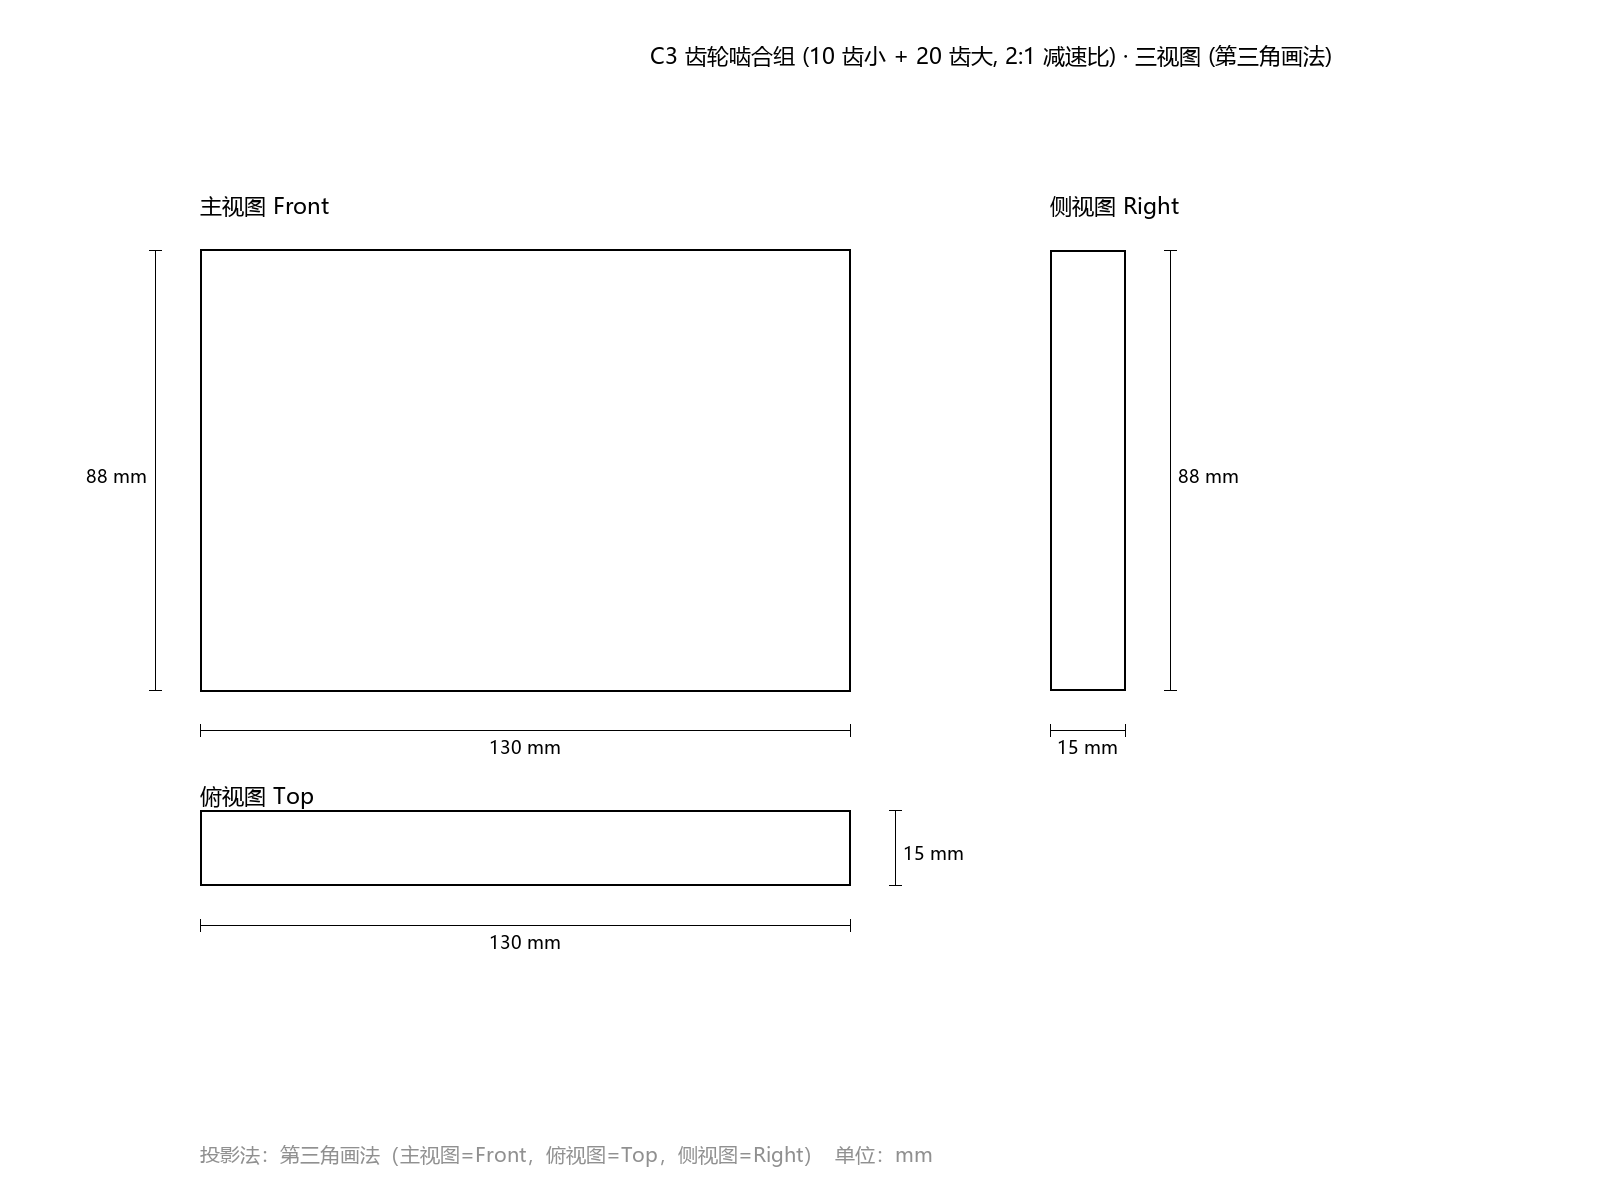
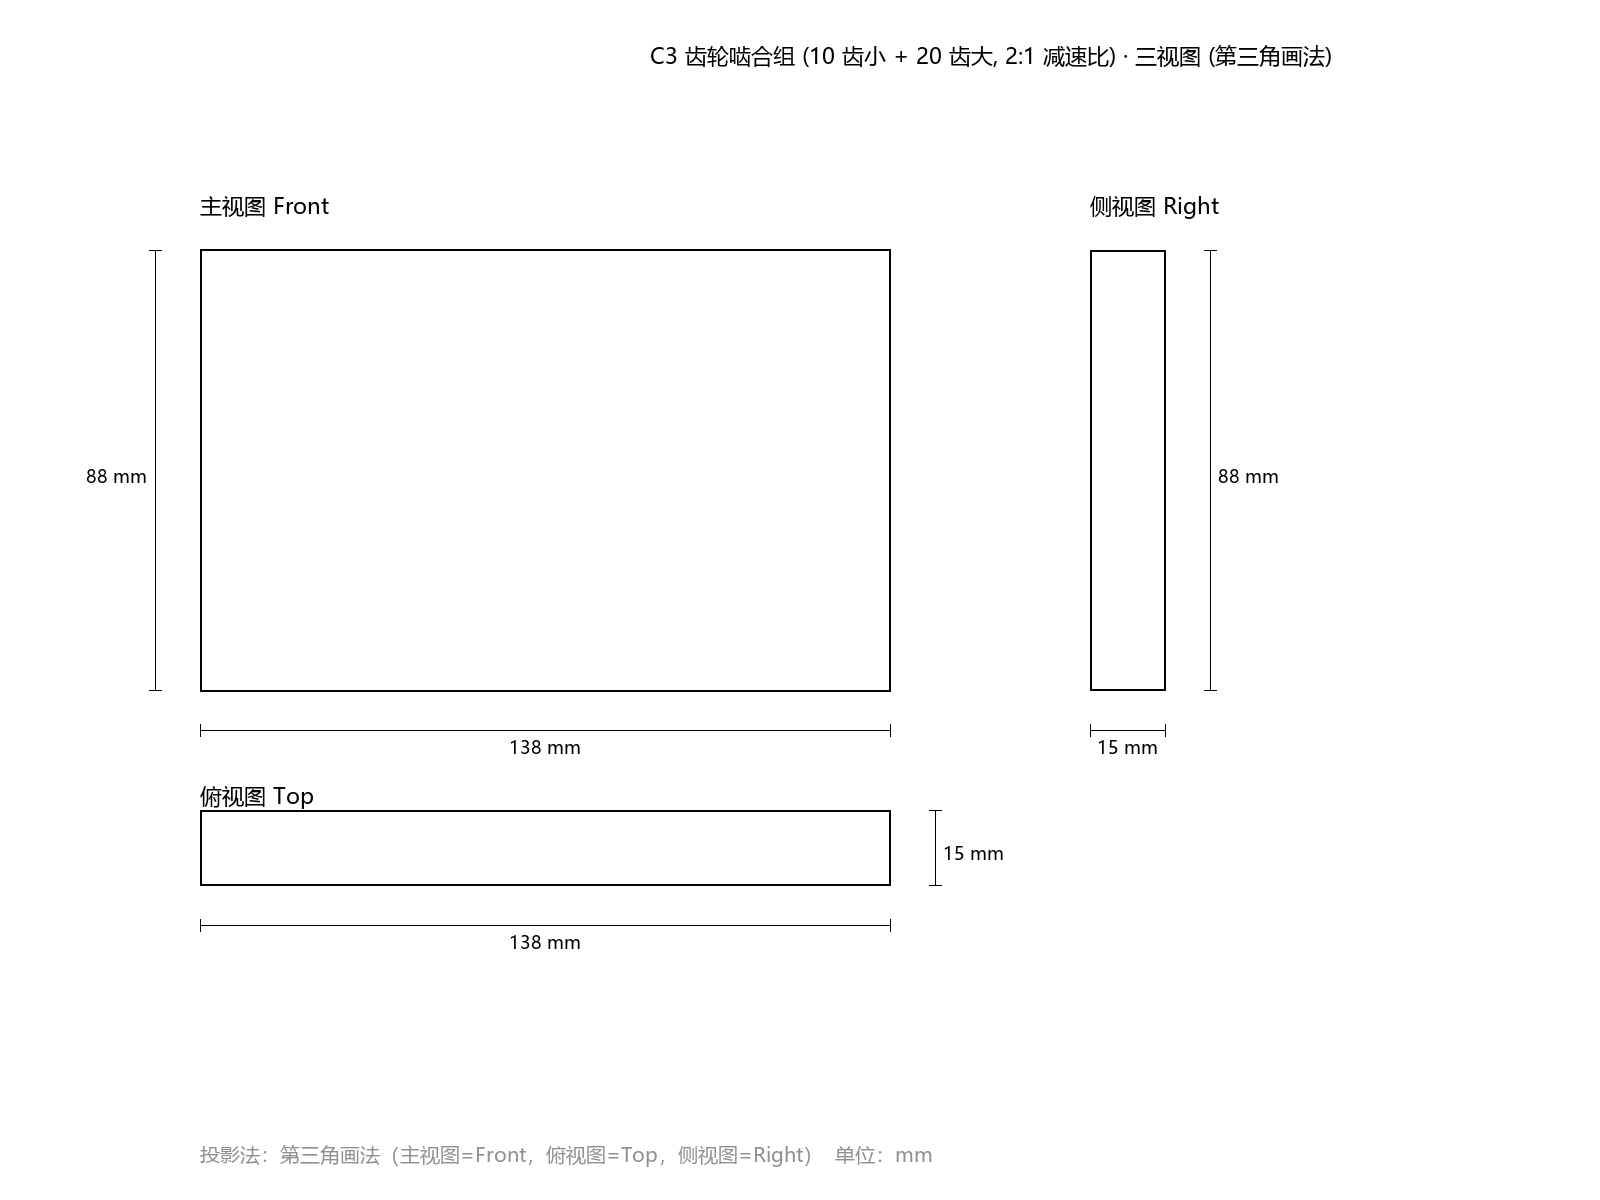
fix(C3): 中心距 62→70mm, 消除矩形齿穿模 (13 步一次通过, 精度 0.06%) 【问题】用户在 web demo 里看到齿轮啮合处穿模: 大齿轮齿顶明显嵌入小齿轮的齿间. 服务端修复 CircularPattern 自动选轴后, 两齿轮的齿都长出来了, 但**中心距过近导致齿顶几何干涉** 【几何分析】原版 C3: 分度圆相切法, 中心距 = 20+40 = 60mm(分度圆), 齿高 4mm 使外接圆达 24+44=68mm, 而中心距只有 62mm → 齿顶圆重叠 6mm(68-62)! 真渐开线齿轮靠齿侧滑动啮合, 齿顶不会到齿根圆; 但矩形齿的顶就是分度圆外 4m

diff --git a/TEST.md b/TEST.md
@@ -571,7 +571,7 @@ LLMPlanner/datasets/manual_three_view/samples.json
 | **B22** | 圆碗 | ⌀80×40 mm | 顶面挖 ⌀68×34mm 深腔形成碗形（壁厚 6mm 底厚 6mm），**首个容器类样例**（用 Shell 替代法，即顶面挖深孔，因 C# 服务未实现 FeatureShell） | 7/7 | 77584.77 |
 | **C1** | 迷你机械键盘 | 285×95×20 mm | 285×95×15 底座 + 5×13=**65 键**方形拔模凸起(15×15×5mm, 拔模 11.31°)一步 LinearPattern 阵列生成，**首个二维线性阵列样例 + 首次使用 basic/claude-sonnet-5** | 8/8 | 469933.28 |
 | **C2** | 齿轮减速器外壳 | 200×120×100 mm | 200×120×20 法兰底座 + 上部 160×100×80 中空箱体(内腔 144×84×74, 壁厚 8mm 底厚 6mm) + 前后 ⌀25 轴承通孔(沿 Y 贯穿, 一次 through_all 打通前后壁) + 法兰 4 角 ⌀8 安装孔(LinearPattern 2×2 阵列), **首个三层复合特征 + 双向面选择(+Z 顶面挖内腔 + +Y 前面挖侧孔) + 首次 through_all 一次贯穿两个平行面** | 19/19 | 853020.78 |
-| **C3** | 齿轮啮合组 | 129.6×88×15 mm | 小齿轮 ⌀40+10 齿(中心 X=-31) + 大齿轮 ⌀80+20 齿(中心 X=+31), 中心距 62mm, 减速比 2:1, 矩形齿高 4mm 齿宽 5mm, 两个齿轮各自 circular_pattern 阵列, **首个多实体零件(同一 sldprt 里两个不相连实体) + 首个真"减速器"传动组**（暂无轴孔, 因齿轮阵列后特征树面数过多导致选面超时；本简化版为实体齿轮） | 15/15 | 103102.47 |
+| **C3** | 齿轮啮合组 | 137.6×88×15 mm | 小齿轮 ⌀40+10 齿(中心 X=-35) + 大齿轮 ⌀80+20 齿(中心 X=+35), 中心距 **70mm**(齿顶留 2mm 视觉间隙, 避免矩形齿穿模), 减速比 2:1, 矩形齿高 4mm 齿宽 5mm, **一草图两圆一次拉伸生成两独立实体** + 两个齿轮各自 circular_pattern 阵列, **首个多实体零件(同一 sldprt 里两个不相连实体) + 首个真"减速器"传动组**（暂无轴孔, 因齿轮阵列后特征树面数过多导致选面超时；本简化版为实体齿轮） | 13/13 | 103308.03 |
 
 ### 12.3 从零复现全部三视图端到端验证
 
@@ -613,7 +613,7 @@ C1: 这是一张 60% 迷你机械键盘的三视图。键盘外形是 285×95×1
 
 C2: 这是一张小型齿轮减速器外壳(俗称齿轮箱)的三视图。整体像一个方盒: 底座 200×120×20mm 是安装法兰盘, 上面立着一个 160×100×80mm 的箱体(法兰盘和箱体都在 XY 平面内居中排列, 箱体位于法兰盘正上方). 箱体是中空的用来装齿轮, 内腔 144×84×74mm(壁厚 8mm 底厚 6mm 顶部敞开). 箱体前后两面各有一个 ⌀25mm 的轴承孔沿 Y 方向贯穿箱体前后壁(供输入/输出轴穿过, 孔中心位于箱体前面的几何中心). 法兰盘四角各有一个 ⌀8mm 的安装孔(沿 Z 方向贯穿法兰厚度, 用于螺栓固定到设备上, 孔中心距法兰边缘 15mm).
 
-C3: 这是一张齿轮啮合组的三视图, 由两个平行放置的直齿圆柱齿轮组成. 小齿轮(输入): 分度圆 ⌀40mm × 厚 15mm, 沿圆周均匀分布 10 个矩形凸齿(齿高 4mm, 齿宽 5mm, 使外接圆达 ⌀48mm); 中心位于 (X=-31mm, Y=0). 大齿轮(输出): 分度圆 ⌀80mm × 厚 15mm, 沿圆周均匀分布 20 个矩形凸齿(齿高 4mm, 齿宽 5mm, 使外接圆达 ⌀88mm); 中心位于 (X=+31mm, Y=0). 两齿轮中心距 62mm. 两齿轮各自独立(不合并为一个实体), 都在同一 XY 平面上并排放置, Z 方向厚度相同 15mm. **本简化版本不需要轴孔**(实体齿轮), 建完两个齿轮的齿即完成; 若加轴孔会因齿轮阵列后特征树面数过多导致选面超时.
+C3: 这是一张齿轮啮合组的三视图, 由两个平行放置的直齿圆柱齿轮组成. 小齿轮(输入): 分度圆 ⌀40mm × 厚 15mm, 沿圆周均匀分布 10 个矩形凸齿(齿高 4mm, 齿宽 5mm, 使外接圆达 ⌀48mm); 中心位于 (X=-35mm, Y=0). 大齿轮(输出): 分度圆 ⌀80mm × 厚 15mm, 沿圆周均匀分布 20 个矩形凸齿(齿高 4mm, 齿宽 5mm, 使外接圆达 ⌀88mm); 中心位于 (X=+35mm, Y=0). 两齿轮中心距 70mm, 两齿轮齿顶留 2mm 视觉间隙(避免矩形齿几何干涉). 两齿轮各自独立(不合并为一个实体), 都在同一 XY 平面上并排放置, Z 方向厚度相同 15mm. **本简化版本不需要轴孔**(实体齿轮), 建完两个齿轮的齿即完成; 若加轴孔会因齿轮阵列后特征树面数过多导致选面超时.
 ```
 
 ### 12.4 验证点
